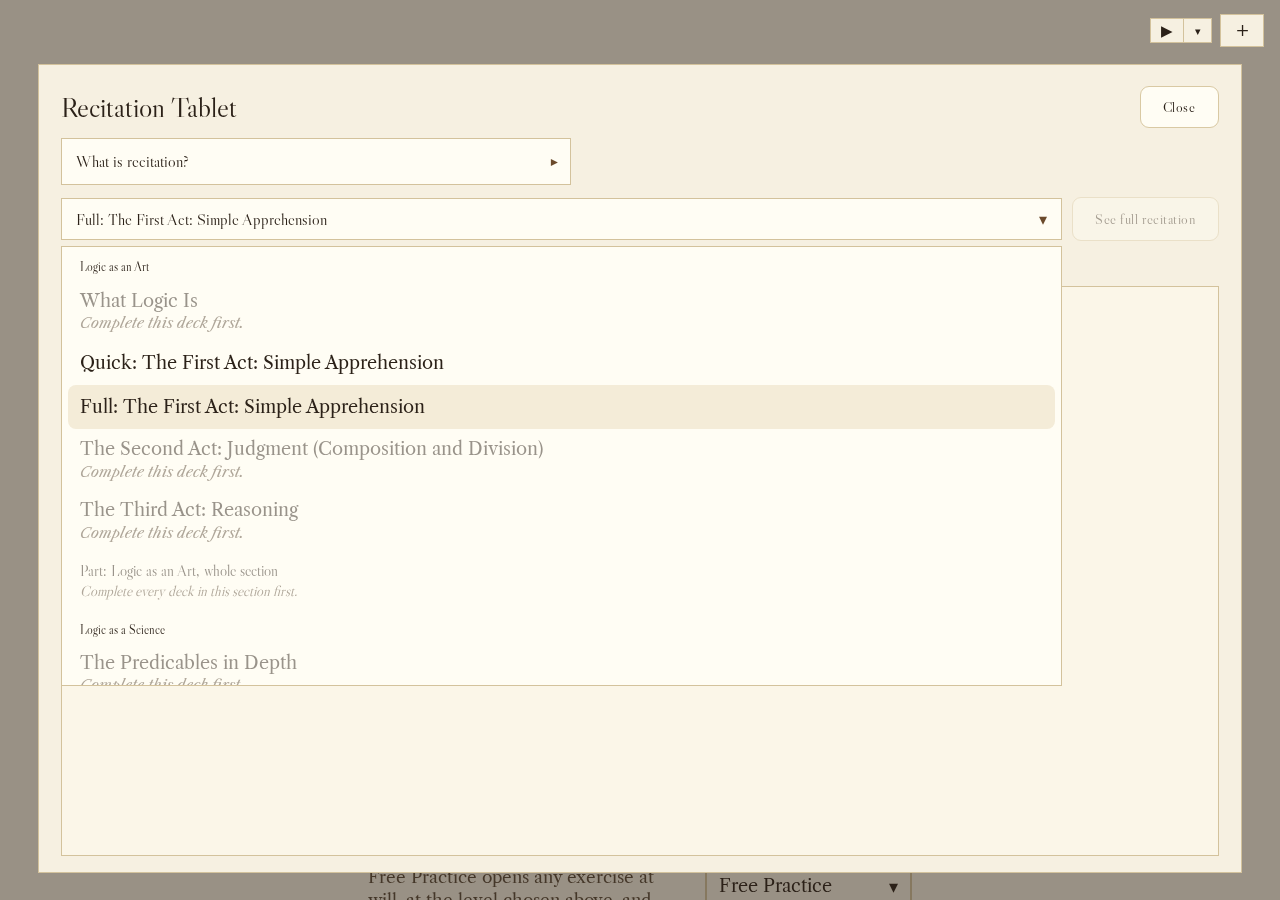
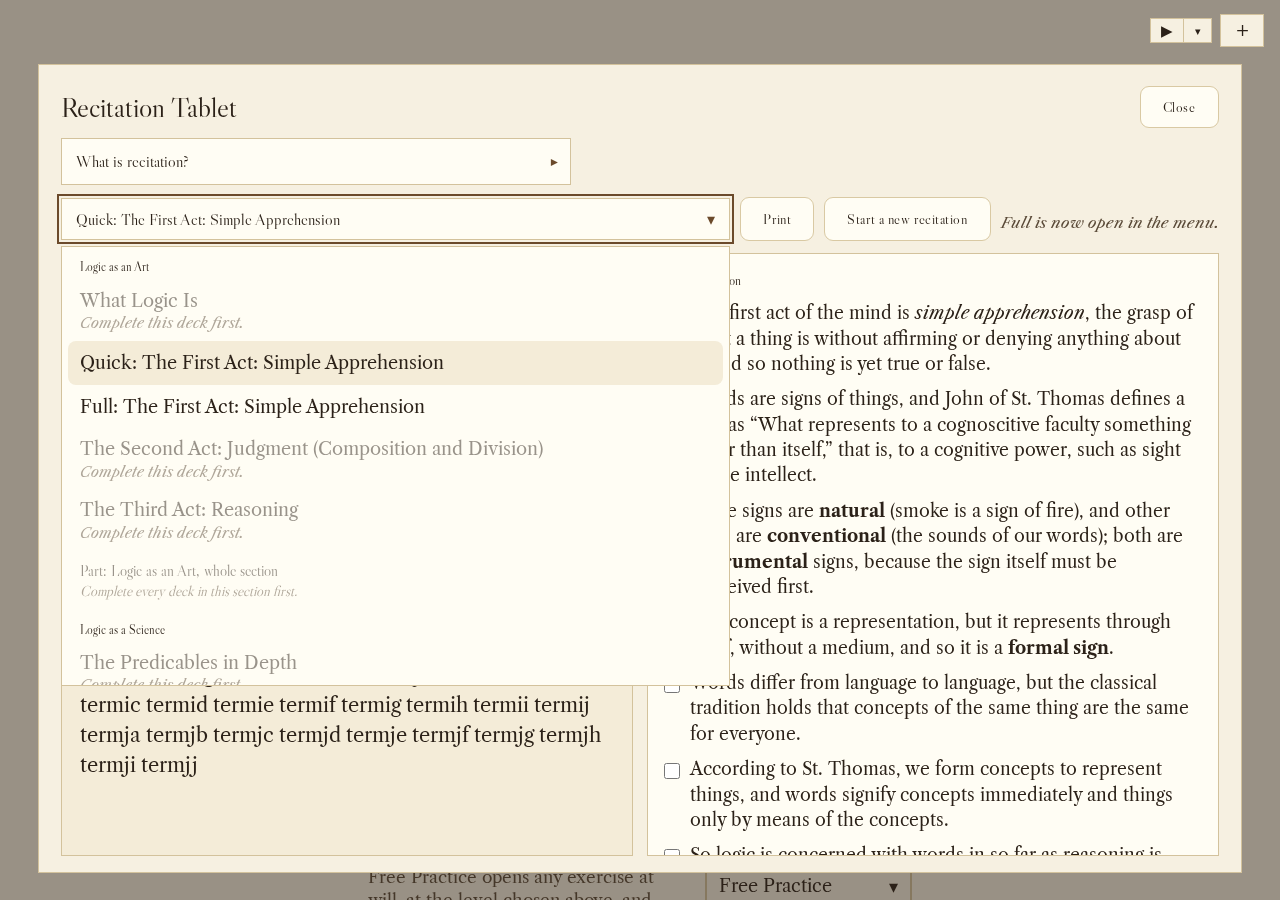
Quick recitations: 80-word minimum, act1 Q2 gloss, Done opens Full without switching, Quick support for whole sections

diff --git a/recitation.js b/recitation.js
@@ -36,6 +36,10 @@
   advances it the same way, so the deck is listed once in "Time to recite again", due from its latest recitation.
   Saved progress from before Quick: once (recitations.quickMigrated), every deck item already present is a Full
   recitation, and it is marked Quick done too (quickDoneAt from revealedAt, or lastRecitedAt, or the time of migration).
+  The two whole-section recitations work the same way when recitation-quick.js has lines for "section:art" or
+  "section:science" (ARS.sectionQuick): Quick is keyed 'quick:section:<id>', kept in items['section:<id>'].quick,
+  and shares that item's schedule. Old section items are migrated as above. "Done" opens Full in the menu only;
+  the tablet stays on the revealed Quick recitation. Quick needs the same minimum of writing as Full (80 words).
 
   A later print view sets record.text beside record.groups. Each point's text is the outline line,
    and checked is the box as the student left it. The line is copied when the outline is opened,
@@ -92,7 +96,7 @@ function renderReciteReminder(){ renderReciteReminderImpl(); }
   }
 
   /* Quick outlines are short (about a third of Full), so their floor is lower; Full keeps 80. */
-  const QUICK_FLOOR = 40;
+  const QUICK_FLOOR = 80;
   function quickMinimum(groups){
     const n = reciteDistinctCount(pointStrings(groups).join(' '));
     return Math.max(QUICK_FLOOR, Math.ceil(n / 4));
@@ -124,7 +128,7 @@ function renderReciteReminder(){ renderReciteReminderImpl(); }
       /* Before Quick existed, every deck item was a Full recitation: count it as Quick done as well. */
       Object.keys(r.items).forEach(k => {
         const it = r.items[k];
-        if (k.indexOf(':') >= 0 || !it || typeof it !== 'object' || it.quickDoneAt) return;
+        if (k.indexOf('quick:') === 0 || !it || typeof it !== 'object' || it.quickDoneAt) return;
         it.quickDoneAt = it.revealedAt || (it.record && it.record.revealedAt) || it.lastRecitedAt || Date.now();
         if (it.lastRecitedAt){ it.fullDoneAt = it.fullDoneAt || it.lastRecitedAt; it.lastKind = it.lastKind || 'full'; }
       });
@@ -166,7 +170,15 @@ function renderReciteReminder(){ renderReciteReminderImpl(); }
 
   function isQuickKey(key){ return typeof key === 'string' && key.indexOf('quick:') === 0; }
   function baseId(key){ return isQuickKey(key) ? key.slice(6) : key; }
+  function isSectionKey(key){ return typeof key === 'string' && key.indexOf('section:') === 0; }
+  function sectionOf(key){ return (ARS.structure || []).find(s => s.id === key.slice(8)) || { items:[] }; }
+  function quickLines(id){
+    if (isSectionKey(id)){ const q = ARS.sectionQuick && ARS.sectionQuick[id]; return Array.isArray(q) && q.length ? q : null; }
+    const d = ARS.decks && ARS.decks[id];
+    return d && Array.isArray(d.quick) && d.quick.length ? d.quick : null;
+  }
   function hasQuick(id){
+    if (isSectionKey(id)) return !!quickLines(id);
     const d = ARS.decks && ARS.decks[id];
     return !!(d && Array.isArray(d.quick) && d.quick.length);
   }
@@ -178,8 +190,11 @@ function renderReciteReminder(){ renderReciteReminderImpl(); }
   /* Whether a menu key can be opened now. */
   function keyOpen(key){
     if (!key) return false;
-    if (key.indexOf('section:') === 0) return sectionReady((ARS.structure || []).find(s => s.id === key.slice(8)) || { items:[] });
     const id = baseId(key);
+    if (isSectionKey(id)){
+      if (!sectionReady(sectionOf(id))) return false;
+      return isQuickKey(key) ? hasQuick(id) : quickDone(id);
+    }
     if (!isUnlocked(id)) return false;
     if (isQuickKey(key)) return hasQuick(id);
     return hasOutline(id) && quickDone(id);
@@ -246,10 +261,14 @@ function renderReciteReminder(){ renderReciteReminderImpl(); }
 
   function liveGroups(key){
     if (!key) return null;
+    if (isQuickKey(key) && isSectionKey(baseId(key))){
+      if (!keyOpen(key)) return null;
+      return [{ deck: baseId(key), title: sectionOf(baseId(key)).name, points: quickLines(baseId(key)) }];
+    }
     if (key.indexOf('section:') === 0){
       const id = key.slice(8);
       const sec = (ARS.structure || []).find(s => s.id === id);
-      if (!sec || !sectionReady(sec)) return null;
+      if (!sec || !sectionReady(sec) || !keyOpen(key)) return null;
       const parts = sectionRecitation(id);
       return parts.length ? parts : null;
     }
@@ -310,6 +329,8 @@ function renderReciteReminder(){ renderReciteReminderImpl(); }
   const doneBtn = document.getElementById('recite-done');
   const SEE_FULL = seeBtn.textContent, NOTE_FULL = note.textContent;
   let selectedKey = '';
+  let justOpened = '';
+  const doneMsg = document.getElementById('recite-done-msg');
   let openGen = 0;
   let saveTimer = 0;
 
@@ -325,7 +346,7 @@ function renderReciteReminder(){ renderReciteReminderImpl(); }
   /* The menu and the tablet name the two recitations of a deck that has a Quick one. */
   function menuName(key){
     const id = baseId(key);
-    if (key.indexOf('section:') !== 0 && hasQuick(id)) return (isQuickKey(key) ? 'Quick: ' : 'Full: ') + labelHTML(id);
+    if (hasQuick(id)) return (isQuickKey(key) ? 'Quick: ' : 'Full: ') + labelHTML(id);
     return labelHTML(key);
   }
 
@@ -352,6 +373,7 @@ function renderReciteReminder(){ renderReciteReminderImpl(); }
     seeBtn.textContent = quick ? 'See quick recitation' : SEE_FULL;
     note.textContent = quick ? 'Write a fuller recitation to see the quick one.' : NOTE_FULL;
     if (doneBtn) doneBtn.hidden = !(quick && item && item.locked && !quickDone(baseId(selectedKey)));
+    if (doneMsg) doneMsg.hidden = !(quick && item && item.locked && justOpened === selectedKey);
     seeBtn.hidden = !!(item && item.locked);
     seeBtn.disabled = !enough;
     if (printBtn) printBtn.hidden = !(item && item.locked && item.groups && item.groups.length);
@@ -412,7 +434,7 @@ function renderReciteReminder(){ renderReciteReminderImpl(); }
   function optButton(key, html, noteText, on){
     const b = document.createElement('button');
     b.type = 'button';
-    b.className = 'recite-opt' + (key.indexOf('section:') === 0 ? ' recite-opt-section' : '');
+    b.className = 'recite-opt' + (isSectionKey(baseId(key)) ? ' recite-opt-section' : '');
     b.dataset.key = key;
     b.setAttribute('role', 'option');
     if (!on) b.disabled = true;
@@ -462,6 +484,13 @@ function renderReciteReminder(){ renderReciteReminderImpl(); }
       else if (!loaded) sNote = '';
       else if (sectionReady(sec)) sOn = true;
       else sNote = 'Outline not yet written.';
+      const sKey = 'section:' + sec.id;
+      if (sOn && hasQuick(sKey)){
+        menuList.appendChild(optButton('quick:' + sKey, menuName('quick:' + sKey), '', true));
+        const open = quickDone(sKey);
+        menuList.appendChild(optButton(sKey, menuName(sKey), open ? '' : 'Press "Done" on Quick to open Full.', open));
+        return;
+      }
       menuList.appendChild(optButton('section:' + sec.id, sectionWholeLabel(sec), sNote, sOn));
     });
     menuList.dataset.ready = loaded ? '1' : '0';
@@ -498,7 +527,7 @@ function renderReciteReminder(){ renderReciteReminderImpl(); }
       renderMenu(true);
       let pick = want;
       /* A deck with a Quick recitation opens on the kind last recited, or on Quick if neither has been. */
-      if (pick && !isQuickKey(pick) && pick.indexOf('section:') !== 0 && hasQuick(pick)){
+      if (pick && !isQuickKey(pick) && hasQuick(pick)){
         const host = bag().items[pick];
         if (!host || !host.lastRecitedAt || host.lastKind === 'quick') pick = 'quick:' + pick;
       }
@@ -608,7 +637,7 @@ function renderReciteReminder(){ renderReciteReminderImpl(); }
     const right = document.createElement('section');
     right.className = 'recite-print-col';
     const rh = document.createElement('h2');
-    rh.textContent = 'Full recitation';
+    rh.textContent = isQuickKey(selectedKey) ? 'Quick recitation' : 'Full recitation';
     right.appendChild(rh);
     item.groups.forEach(g => {
       if (item.groups.length > 1){
@@ -701,8 +730,11 @@ function renderReciteReminder(){ renderReciteReminderImpl(); }
     if (!host.quickDoneAt) host.quickDoneAt = Date.now();
     clearTimeout(saveTimer);
     save();
+    /* Done opens Full in the menu; the tablet stays on the revealed Quick recitation. */
+    justOpened = selectedKey;
     renderMenu(true);
-    choose(id);
+    paint();
+    menuBtn.focus();
   });
 
   newBtn.addEventListener('click', () => {

diff --git a/recitation-quick.js b/recitation-quick.js
@@ -1,5 +1,6 @@
 'use strict';
-/* Quick recitations for the Recitation Tablet: about ten to twelve core claims for each deck.
+/* Quick recitations for the Recitation Tablet: about ten to twelve core claims for each deck,
+   and optionally for the whole-section recitations (keys "section:art" and "section:science").
    Quick is offered first; the Full recitation (each deck's recitation field) opens once the student presses "Done" on Quick.
    A deck not listed here has only its Full recitation, as before.
    Generated by tools/integrate-quick.py; edit the source file and run it again, or edit the lines here. */
@@ -11,9 +12,9 @@ window.__arsQuickRecitations = /*DATA*/{
       "from": "condensed from line 1"
     },
     {
-      "html": "Words are signs of things, and John of St. Thomas defines a sign as “What represents to a cognoscitive faculty something other than itself.”",
+      "html": "Words are signs of things, and John of St. Thomas defines a sign as “What represents to a cognoscitive faculty something other than itself,” that is, to a cognitive power, such as sight or the intellect.",
       "card": "2: Signs",
-      "from": "kept verbatim (line 4)"
+      "from": "kept verbatim (line 4, with its gloss)"
     },
     {
       "html": "Some signs are <strong>natural</strong> (smoke is a sign of fire), and other signs are <strong>conventional</strong> (the sounds of our words); both are <strong>instrumental</strong> signs, because the sign itself must be perceived first.",

diff --git a/index.html b/index.html
@@ -2186,7 +2186,8 @@ html[data-font="italic"] .fb-why{font-size:1.06em}
       <button type="button" class="btn" id="recite-see" disabled>See full recitation</button>
       <button type="button" class="btn" id="recite-print" hidden>Print</button>
       <button type="button" class="btn" id="recite-new" hidden>Start a new recitation</button>
-      <button type="button" class="btn recite-done" id="recite-done" hidden aria-label="Done with the Quick recitation; opens the Full recitation">Done</button>
+      <button type="button" class="btn recite-done" id="recite-done" hidden aria-label="Done with the Quick recitation; opens the Full recitation in the menu">Done</button>
+      <p class="recite-note" id="recite-done-msg" role="status" hidden>Full is now open in the menu.</p>
     </div>
     <p class="recite-note" id="recite-note" data-directions hidden>Write a fuller recitation to see the full one.</p>
     <div class="recite-columns" id="recite-columns">

diff --git a/recitation-adapter.js b/recitation-adapter.js
@@ -44,6 +44,14 @@ ARS.structure = [
 ];
 /* No roman, so the menu heading is the part name. The whole-part line uses the shared wording. */
 ARS.reciteWords = { section: 'Part', prelim: 'Part' };
+/* Quick recitations for the whole sections: keys "section:art" and "section:science" in recitation-quick.js.
+   No lines: the section has only its Full recitation, as before. */
+ARS.sectionQuick = {};
+ARS.structure.forEach(sec => {
+  const q = (window.__arsQuickRecitations || {})['section:' + sec.id];
+  const lines = Array.isArray(q) ? q.map(x => (typeof x === 'string' ? x : x && x.html)).filter(Boolean) : [];
+  if (lines.length) ARS.sectionQuick['section:' + sec.id] = lines;
+});
 
 const RECITE_PROGRESS_KEY = 'arsSyllogistica.progress.v1';
 const recite$ = id => document.getElementById(id);

diff --git a/tools/integrate-quick.py b/tools/integrate-quick.py
@@ -6,6 +6,9 @@ Usage:
       default input: /workspace/deck-split-logica/quick-all.json
       format: {deckId: {"quick": [{"html", "from", "verbatim", "card"}, ...], "leftOut": [...]}}
 
+Whole sections: entries keyed "section:art" / "section:science" are accepted, and so are the forms
+"art", "science", "section-art", "section_art", "Logic as an Art" and "Logic as a Science". A file without them is fine.
+
 Decks already in recitation-quick.js are kept unless the input supplies them again.
 Each line is written as {html, card, from}: html is shown in the tablet; card and from (the source Full lines) are notes for editors.
 To add one deck by hand instead, add an entry to recitation-quick.js:  "act2": [ {"html": "...", "card": "1: ...", "from": "line 3"}, ... ]
@@ -27,19 +30,32 @@ def current():
 
 def known_ids():
     ids = list(ORDER)
+    ids_tail = ['section:art', 'section:science']
     adv = open(os.path.join(ROOT, 'ars-advanced.js'), encoding='utf8').read()
     ids += [i for i in re.findall(r"\bid:\s*'(adv-[a-z0-9-]+)'", adv) if i not in ids]
-    return ids
+    return ids + ids_tail
+
+SECTION_ALIASES = {'art': 'section:art', 'science': 'section:science',
+                   'logic as an art': 'section:art', 'logic as a science': 'section:science'}
+
+def norm_id(k):
+    k0 = k.strip()
+    low = k0.lower()
+    for pre in ('section:', 'section-', 'section_'):
+        if low.startswith(pre): low = low[len(pre):]; break
+    return SECTION_ALIASES.get(low, k0)
 
 def main():
     src = sys.argv[1] if len(sys.argv) > 1 else '/workspace/deck-split-logica/quick-all.json'
-    data = json.load(open(src, encoding='utf8'))
-    only = sys.argv[2:]   # optional deck ids: integrate only these
+    data = {norm_id(k): v for k, v in json.load(open(src, encoding='utf8')).items()}
+    only = [norm_id(x) for x in sys.argv[2:]]   # optional deck or section ids: integrate only these
     if only: data = {k: v for k, v in data.items() if k in only}
     out = current()
     ids = known_ids()
     for deck, rec in data.items():
-        lines = [{k: q[k] for k in ('html', 'card', 'from') if k in q} for q in (rec.get('quick') or []) if q.get('html', '').strip()]
+        raw = rec if isinstance(rec, list) else (rec or {}).get('quick') or []
+        raw = [{'html': q} if isinstance(q, str) else q for q in raw]
+        lines = [{k: q[k] for k in ('html', 'card', 'from') if k in q} for q in raw if (q.get('html') or '').strip()]
         if not lines:
             print('skip ' + deck + ': no lines'); continue
         if deck not in ids:

diff --git a/notes/QUICK-RECITATIONS.md b/notes/QUICK-RECITATIONS.md
@@ -1,12 +1,20 @@
-# Loading Quick recitation lines for a deck
+# Loading Quick recitation lines
 
-Quick lines live in `recitation-quick.js`, in `window.__arsQuickRecitations`,
-keyed by deck id. Each line is `{html, card, from}`. Only act1 is loaded now.
-A deck with no entry shows Full only in the tablet.
+Quick lines live in `recitation-quick.js`, in `window.__arsQuickRecitations`.
+Each entry is a list of lines `{html, card, from}`, keyed by deck id (for example `act1`)
+or by whole section (`section:art` for Logic as an Art, `section:science` for Logic as a Science).
+Only act1 is loaded now. A deck or section with no entry shows only its Full recitation, as before.
 
-To add decks from the Editor's file (same shape: `{"deckId": [{html, card, from}, ...]}`):
+To add decks or sections from the Editor's file:
 
-    python3 tools/integrate-quick.py quick-all.json act2 act3
+    python3 tools/integrate-quick.py quick-all.json act2 act3 section:art
 
-Existing decks are kept. The script warns about dashes and unknown deck ids.
+The script also accepts the section keys written as `section-art`, `art`, or "Logic as an Art"
+(and the same for science), and it is fine if the file has no section entries.
+Entries already loaded are kept. The script warns about dashes and unknown ids.
 Then run `node tools/check.js` and open the tablet to read the lines.
+
+How it behaves: Quick is offered first and needs at least 80 words, as Full does.
+Pressing "Done" on Quick opens Full in the menu; the tablet stays on Quick and says
+"Full is now open in the menu." Either kind of recitation moves the review schedule,
+and each deck or section is listed once in "Time to recite again".
